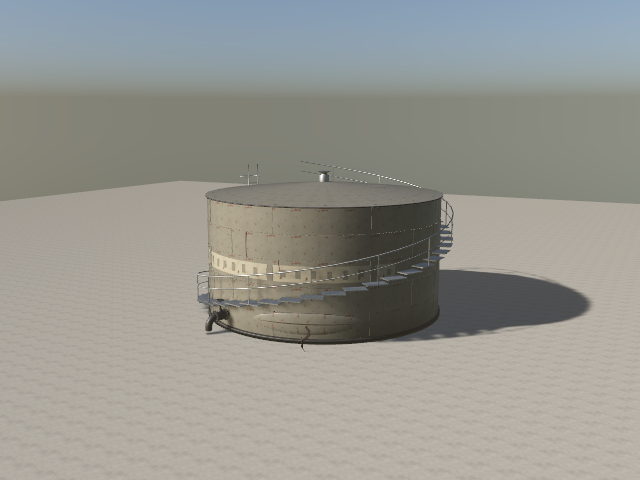
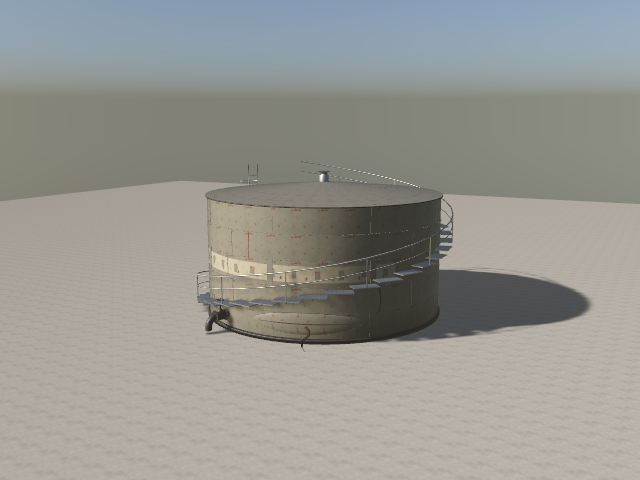
Fit molasses-tank to 15k prop budget

diff --git a/Sources/RealLibrary/Props/Industrial/MolassesTank.swift b/Sources/RealLibrary/Props/Industrial/MolassesTank.swift
@@ -8,9 +8,9 @@ import Foundation
 /// base center.
 public struct MolassesTank: RealAsset {
     public static let id = "molasses-tank"
-    public static let summary = "1919 riveted steel molasses storage tank (Boston Great Molasses Flood), 1:3 scale: lapped plate courses, rivet rows, butt straps, conical roof, spiral stair, inlet valve and a bulging weeping seam."
+    public static let summary = "1919 riveted steel molasses tank (Boston Great Molasses Flood), 1:3 scale: lapped courses, rivets, spiral stair, valve, bulging weeping seam."
     public static let tags = ["prop", "industrial", "metal", "container", "harbor", "antique"]
-    public static let budget = 20_000
+    public static let budget = 15_000
     public static let author = "realityhd"
     public static let preview = PreviewHint(azimuth: 28, elevation: 10, distance: 1.2, studio: true)
 
@@ -59,7 +59,7 @@ public struct MolassesTank: RealAsset {
     func model(seed: UInt64, hi: Bool) -> Model {
         var rng = SeededRNG(seed: seed)
         var m = Model(name: Self.id)
-        let R = Self.radius, segs = hi ? 80 : 40
+        let R = Self.radius, segs = hi ? 64 : 32
         let pt = Self.pt, rad = Self.rad
         let Y = V3(0, 1, 0)
         func yaw(_ a: Float) -> simd_quatf { simd_quatf(angle: a, axis: Y) }
@@ -90,8 +90,8 @@ public struct MolassesTank: RealAsset {
         m.add(cuboid(V3(0.62, 0.1, 0.62), material: galvanized), Xform(translation: hatchAt + V3(0, 0.04, 0), rotation: yaw(rad(20))))
         m.add(cuboid(V3(0.56, 0.025, 0.56), material: steel), Xform(translation: hatchAt + V3(0, 0.105, 0), rotation: yaw(rad(20))))
         // Radial roof rib seams.
-        for k in 0..<(hi ? 16 : 8) {
-            let a = Float(k) / Float(hi ? 16 : 8) * 2 * .pi + 0.1
+        for k in 0..<(hi ? 8 : 4) {
+            let a = Float(k) / Float(hi ? 8 : 4) * 2 * .pi + 0.1
             let len = R * 0.92
             m.add(cuboid(V3(len, 0.012, 0.09), material: iron), Xform().adjusted(a: a, len: len, roofY: roofY, rise: Self.roofRise))
         }
@@ -101,7 +101,7 @@ public struct MolassesTank: RealAsset {
         var rowYs: [Float] = [Self.baseHeight + 0.05, Self.wallTop - 0.05]
         for i in 1..<Self.courses { rowYs.append(Self.baseHeight + Float(i) * Self.courseHeight) }
         for y in rowYs {
-            let count = 30
+            let count = 20
             for k in 0..<count {
                 let a = (Float(k) + (y > 2 ? 0.5 : 0)) / Float(count) * 2 * .pi
                 let r = Self.wallRadius(at: min(max(y, Self.baseHeight + 0.01), Self.wallTop - 0.01))
@@ -116,8 +116,8 @@ public struct MolassesTank: RealAsset {
                 let a = (Float(k) + (i % 2 == 0 ? 0 : 0.5)) / Float(n) * 2 * .pi + 0.07
                 m.add(cuboid(V3(0.012, Self.courseHeight - 0.03, 0.2), material: steel),
                       Xform(translation: pt(a, y0 + Self.courseHeight / 2, r), rotation: yaw(a)))
-                for t: Float in [-0.07, 0.07] { for j in 0..<2 {
-                    let y = y0 + 0.2 + Float(j) * 0.4
+                for t: Float in [-0.07, 0.07] { for j in 0..<1 {
+                    let y = y0 + 0.4
                     let aa = a - t / r
                     rivet(&m, pt(aa, y, r + 0.006), out(aa), r: 0.013)
                 }}
@@ -153,8 +153,8 @@ public struct MolassesTank: RealAsset {
         let path = (0...steps).map { pt(a0 + (a1 - a0) * Float($0) / Float(steps), bandY, bandR) }
         m.add(Prim.sweep(Shape2D.rect(0.004, 0.5), along: path, up: out(a0), caps: true, material: band))
         if !lite {
-            for k in 0..<18 {
-                let a = a0 + (a1 - a0) * (Float(k) + 0.5) / 18
+            for k in 0..<12 {
+                let a = a0 + (a1 - a0) * (Float(k) + 0.5) / 12
                 let w = rng.float(0.14...0.2)
                 m.add(cuboid(V3(0.004, rng.float(0.2...0.3), w), material: steel),
                       Xform(translation: pt(a, bandY + rng.float(-0.03...0.03), bandR + 0.003), rotation: simd_quatf(angle: a, axis: Y)))
@@ -186,7 +186,7 @@ public struct MolassesTank: RealAsset {
         m.add(Prim.sweep(Shape2D.circle(0.04, ry: 0.0045, segments: 6), along: runPath, up: V3(0, 1, 0), scales: [0.9, 1, 1.1, 1.2, 1.1, 1, 1, 0.9], caps: true, material: molasses))
         guard !lite else { return }
         // Thin weeps from the seams, tapering as they run down.
-        for k in 0..<12 {
+        for k in 0..<8 {
             let seamI = rng.int(1...4)
             let a = rng.float(-Float.pi...Float.pi)
             let y0 = Self.baseHeight + Float(seamI) * Self.courseHeight
@@ -208,7 +208,7 @@ public struct MolassesTank: RealAsset {
         let R = Self.radius, pt = Self.pt, rad = Self.rad
         let Y = V3(0, 1, 0)
         func yaw(_ a: Float) -> simd_quatf { simd_quatf(angle: a, axis: Y) }
-        let treads = lite ? 18 : 36
+        let treads = lite ? 18 : 30
         let a0 = rad(-170), turn = rad(300), y0: Float = 0.15, y1 = Self.wallTop
         let tw: Float = 0.42, rOut = R + 0.012 + tw
         var rail: [V3] = [], mid: [V3] = []
@@ -241,8 +241,8 @@ public struct MolassesTank: RealAsset {
             for j in 0..<15 {
                 m.add(cuboid(V3(0.02, 0.02, 0.44), material: galvanized), Xform(translation: pt(ladderA, 0.35 + Float(j) * 0.3, lr), rotation: yaw(ladderA)))
             }
-            for k in 0..<5 {
-                let y = 2.3 + Float(k) * 0.55
+            for k in 0..<3 {
+                let y = 2.5 + Float(k) * 0.9
                 let arcLen: Float = 1.55 * .pi
                 m.add(Prim.torus(major: 0.4, minor: 0.012, segments: 12, sides: 5, arc: arcLen, material: galvanized),
                       Xform(translation: pt(ladderA, y, lr + 0.2), rotation: yaw(ladderA - arcLen / 2)))
@@ -257,7 +257,7 @@ public struct MolassesTank: RealAsset {
         let a = rad(-112), y: Float = 0.52, r0 = Self.courseRadius(0) - 0.1
         func yaw(_ ang: Float) -> simd_quatf { simd_quatf(angle: ang, axis: Y) }
         let dir = V3(cos(a), 0, -sin(a))
-        let sides = lite ? 10 : 24
+        let sides = lite ? 10 : 16
         // Run out from the wall, then elbow down to ground level.
                 var path = [pt(a, y, r0), pt(a, y, Self.radius + 0.2), pt(a, y, Self.radius + 0.42)]
         let elbow = (0...6).map { k -> V3 in
@@ -270,9 +270,9 @@ public struct MolassesTank: RealAsset {
         // Gate valve: flange pair around a body, stem and handwheel.
         let vp = pt(a, y, Self.radius + 0.28)
         let q = facing(dir)
-        m.add(Prim.cylinder(radius: 0.19, height: 0.035, bevel: 0.004, segments: lite ? 12 : 28, material: iron), Xform(translation: vp - dir * 0.2, rotation: q))
-        m.add(Prim.cylinder(radius: 0.19, height: 0.035, bevel: 0.004, segments: lite ? 12 : 28, material: iron), Xform(translation: vp + dir * 0.17, rotation: q))
-        m.add(Prim.lathe([V2(0.12, 0), V2(0.14, 0.05), V2(0.15, 0.18), V2(0.14, 0.31), V2(0.12, 0.36)], segments: lite ? 12 : 28, seamTile: 0.2, material: iron),
+        m.add(Prim.cylinder(radius: 0.19, height: 0.035, bevel: 0.004, segments: lite ? 12 : 20, material: iron), Xform(translation: vp - dir * 0.2, rotation: q))
+        m.add(Prim.cylinder(radius: 0.19, height: 0.035, bevel: 0.004, segments: lite ? 12 : 20, material: iron), Xform(translation: vp + dir * 0.17, rotation: q))
+        m.add(Prim.lathe([V2(0.12, 0), V2(0.14, 0.05), V2(0.15, 0.18), V2(0.14, 0.31), V2(0.12, 0.36)], segments: lite ? 12 : 20, seamTile: 0.2, material: iron),
               Xform(translation: vp - dir * 0.17, rotation: q))
         guard !lite else { return }
         for k in 0..<8 {

diff --git a/CATALOG.md b/CATALOG.md
@@ -148,7 +148,7 @@ Generated by `swift run -q realityhd catalog`. Do not edit by hand.
 | `crayfish-chimney` | nature, ground, river | 5316 / 1000 | 6400 | `ground.mud` `ground.mud:4F3E2C` `ground.mud:6B5640` `ground.mud:5A4833` `ground.mud:76624A` `ground.mud:4A3A2A` `ground.mud:1E1812` | realityhd | Fifteen-centimeter crayfish burrow chimney of stacked mud pellets around a dark hole on a mud apron. |
 | `mud-tracks` | nature, ground, river | 5688 / 1120 | 6000 | `ground.mud` | realityhd | Fifty-centimeter river mud patch pressed with raccoon, deer and heron tracks and raised displacement rims. |
 | `sand-ripples` | nature, ground, river | 6360 / 1088 | 6500 | `ground.sand` `rock.river:8A8272` `rock.river:B0A592` `rock.river:C4B8A2` `rock.river:9A9080` `rock.river:A39581` | realityhd | Eighty-centimeter river sand patch with wandering flow ripple marks and tiny scattered pebbles. |
-| `feather-scatter` | nature, ground | 186 | 700 | `fauna.feather:F2EEE4` `fauna.feather:B5A998` `fauna.feather:A08C70` `fauna.feather:C9BBA0` `fauna.feather:6B6256` | realityhd | Six to ten loose feathers (flight, contour and down) of 3 to 20 cm lying on the ground. |
+| `feather-scatter` | nature, ground | 186 | 700 | `fauna.feather:6B6256` `fauna.feather:A08C70` `fauna.feather:F2EEE4` `fauna.feather:B5A998` `fauna.feather:C9BBA0` | realityhd | Six to ten loose feathers (flight, contour and down) of 3 to 20 cm lying on the ground. |
 | `ground-nest` | nature, ground, stone | 3248 / 464 | 3400 | `ground.dirt` `rock.river:888070` `rock.river:5E5342` `rock.river:7D7464` `rock.river:544F46` `rock.river:6C665B` `rock.limestone:D8C48F` `ground.dirt:3E2F22` | realityhd | Killdeer scrape nest, 15 cm, a shallow dirt bowl ringed with pebbles holding four speckled eggs. |
 | `eggshell-fragments` | nature, ground | 1792 | 2200 | `insect.chitin:5592B5` `insect.chitin:A9C4C4` `insect.chitin:74B4B0` `insect.chitin:5E9FBE` `insect.chitin:6AAFB4` | realityhd | Five to eight hatched pale blue eggshell shards of 1 to 3 cm, curved with jagged rims. |
 | `snail-shell` | nature, ground | 2421 / 674 | 2600 | `insect.chitin:B88A4A` `insect.chitin:C9A465` `insect.chitin:A9763A` `insect.chitin:D2B77A` `ground.mud:A89C80` `ground.mud:8E8268` `insect.chitin:1A1612` `insect.chitin:9A6B38` | realityhd | Four empty banded garden snail shells of 2 to 3 cm and one live snail with antennae. |
@@ -1773,7 +1773,7 @@ Generated by `swift run -q realityhd catalog`. Do not edit by hand.
 | `cinema-3d-glasses` | prop, paper, cardboard, antique, handheld | 3268 / 3040 | 9000 | `paper.sheet:F0ECE0` `glass.tinted:E0201C` `glass.tinted:10C8E0` `plastic.matte:1E3A8A` `paper.sheet:CFC8B8` `paper.sheet:D9CFBA` | realityhd | Cardboard anaglyph 3D glasses, 15 cm wide: white folded card frame with printed edge stripe, red and cyan film lenses, fold-out card temple arms. |
 | `diner-salt-shaker` | prop, kitchen, tableware, glass, metal, interior, handheld | 11944 / 3940 | 12000 | `glass.clear` `food.sugar:F2F0EA` `metal.stainless-smudged:EEF2F8` `metal.parkerized` | realityhd | Classic diner glass salt shaker, 9 cm tall, 5 cm across, with a chrome perforated cap, salt fill and crystals, and a few spilled grains. |
 | `chef-toque` | prop, kitchen, fabric, interior, handheld | 12732 / 6200 | 14000 | `fabric.nylon:F6F4EE` `fabric.canvas:ECE8DF` `fabric.linen:E6E1D4` `fabric.linen:DCD6C6` | realityhd | Tall pleated white chef toque, 28 cm tall on a 0.19 m head band, pleated lofted crown with a puffed top. |
-| `molasses-tank` | prop, industrial, metal, container, harbor, antique | 19914 / 4326 | 20000 | `metal.iron` `metal.painted:6F6B60` `metal.galvanized-aged` `metal.painted:9A927E` `metal.rust-grime:3B2312` `metal.rust` | realityhd | 1919 riveted steel molasses storage tank (Boston Great Molasses Flood), 1:3 scale: lapped plate courses, rivet rows, butt straps, conical roof, spiral stair, inlet valve and a bulging weeping seam. |
+| `molasses-tank` | prop, industrial, metal, container, harbor, antique | 14838 / 3846 | 15000 | `metal.iron` `metal.painted:6F6B60` `metal.galvanized-aged` `metal.painted:9A927E` `metal.rust-grime:3B2312` `metal.rust` | realityhd | 1919 riveted steel molasses tank (Boston Great Molasses Flood), 1:3 scale: lapped courses, rivets, spiral stair, valve, bulging weeping seam. |
 
 ## Structures
 
